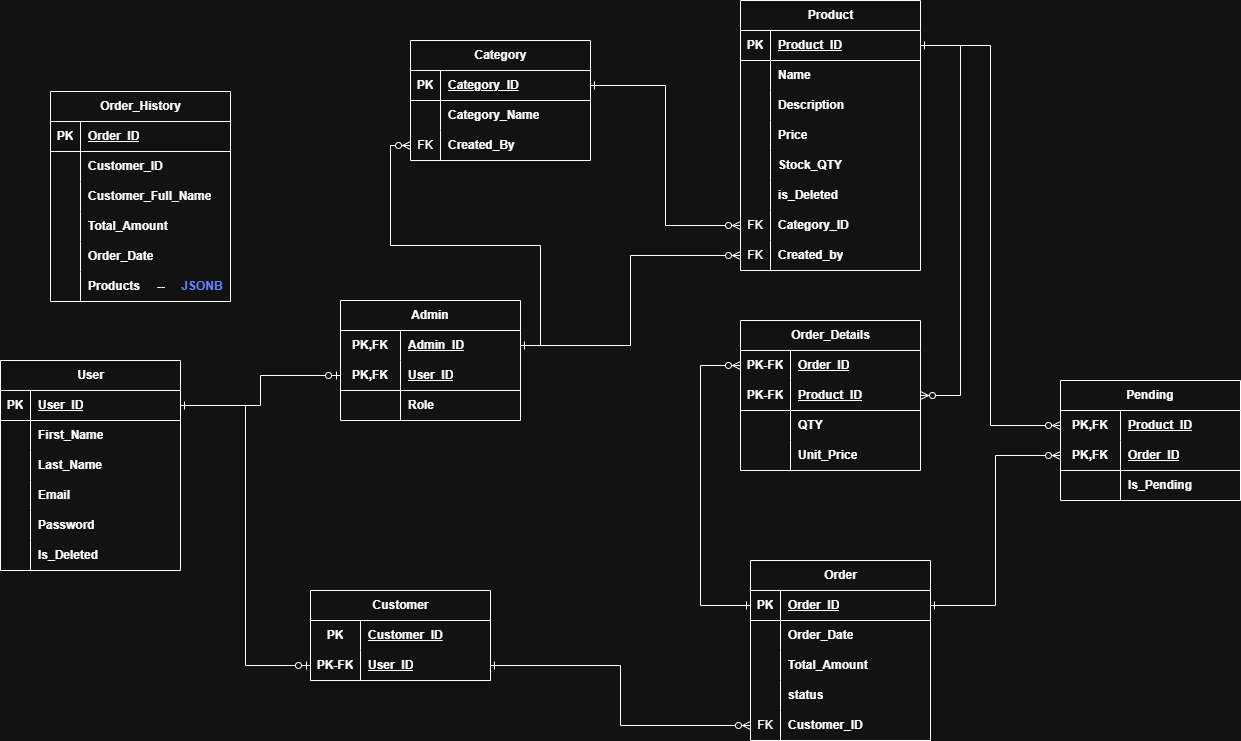
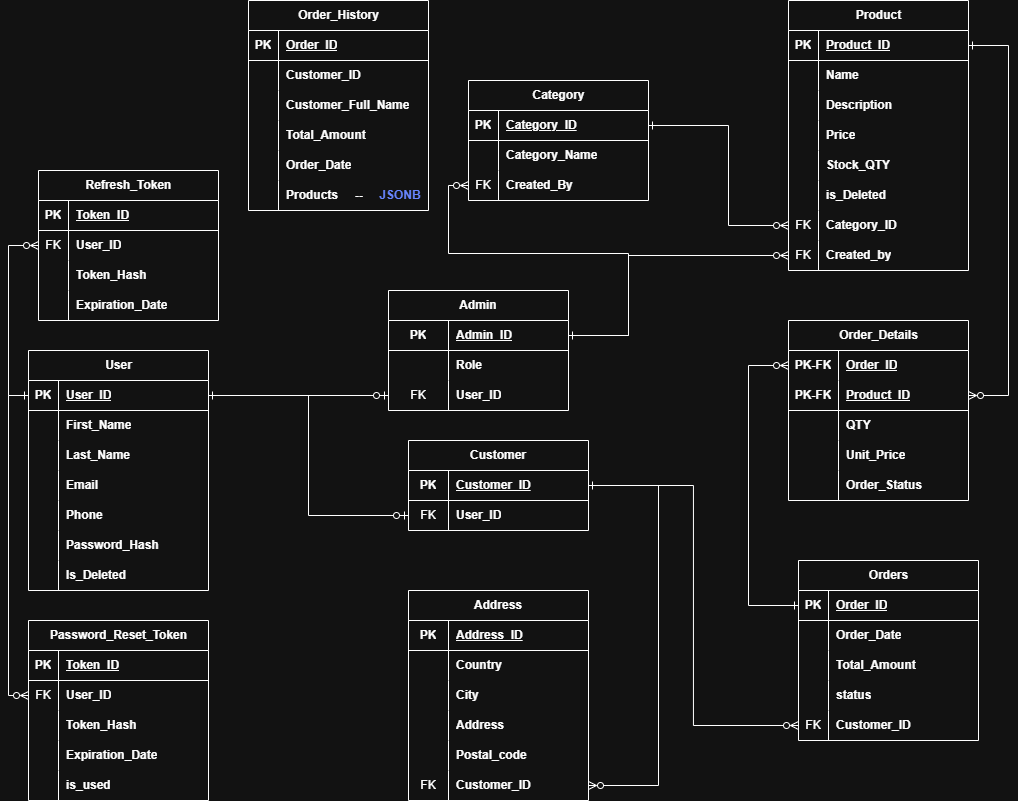
Updated: Database schema and refactored readme

diff --git a/README.md b/README.md
@@ -52,12 +52,14 @@ Providing customers with easy access to quality products while enabling business
 - **User**: Base entity for all platform users (Admins & Customers).
 - **Admin**: Extends User, includes a `Role`. Responsible for product/category management.
 - **Customer**: Extends User, places orders.
+- **Address**: Stores multiple addresses for each customer (billing/shipping).
 - **Product**: Stores product info, linked to Category and Admin (creator).
 - **Category**: Lookup table for product categories.
-- **Order**: Customer orders, containing total amount, date, and status.
-- **Order_Details**: Junction table between Orders and Products (Qty + Unit Price).
-- **Pending**: Tracks pending items before deletion (Also could be considered denormalized table).
+- **Orders**: Customer orders, containing total amount, date, and status.
+- **Order_Details**: Assotiative entity between Orders and Products (Qty + Unit Price), order status is denormalized for fast lookup before product deletion.
 - **Order_History**: **Denormalized table** storing full order summaries with a JSONB field for products.
+- **Refresh_Tokens**: Stores refresh tokens for authenticated users, used for session management and token renewal.
+- **Password_Reset_Token**: Stores password reset tokens.
 
 ## Denormalization Note
 
@@ -100,14 +102,14 @@ This reduces JOIN operations and speeds up historical order retrieval.
 #### Pseudocode
 
 ```text
-function void manageUserRegistration(userInfo){
+function  manageUserRegistration(userInfo){
     if(!isValidInputs(userInfo))
-        Throw new Error("Invalid data!")
+        return "Invalid data!";
 
-    @async mailUser(userInfo.email);
     saveToDatabase(userInfo);
+    @async mailUser(userInfo.email);
 }
-function boolean isValidInputs(userInfo){
+function isValidInputs(userInfo){
     if(userInof.firstName.isEmpty())
         return false;
 
@@ -154,7 +156,7 @@ function string authenticateCustomer(custCredentials){
     Customer customer = findCustomer(custCredentials); // DB call
 
     if customer is null // means not found (invalid email or password)
-        Throw new Error("Invalid Email or Password");
+        return "Invalid Email or Password";
 
     if customer choosed Remember Me option
         return session valid for 30 days

diff --git a/US-001-User-Registration/README.md b/US-001-User-Registration/README.md
@@ -49,14 +49,14 @@ Specific conditions that must be met for this user story to be considered comple
 ## Pseudocode
 
 ```text
-function void manageUserRegistration(userInfo){
+function  manageUserRegistration(userInfo){
     if(!isValidInputs(userInfo))
-        Throw new Error("Invalid data!")
+        return "Invalid data!";
 
-    @async mailUser(userInfo.email);
     saveToDatabase(userInfo);
+    @async mailUser(userInfo.email);
 }
-function boolean isValidInputs(userInfo){
+function isValidInputs(userInfo){
     if(userInof.firstName.isEmpty())
         return false;
 
